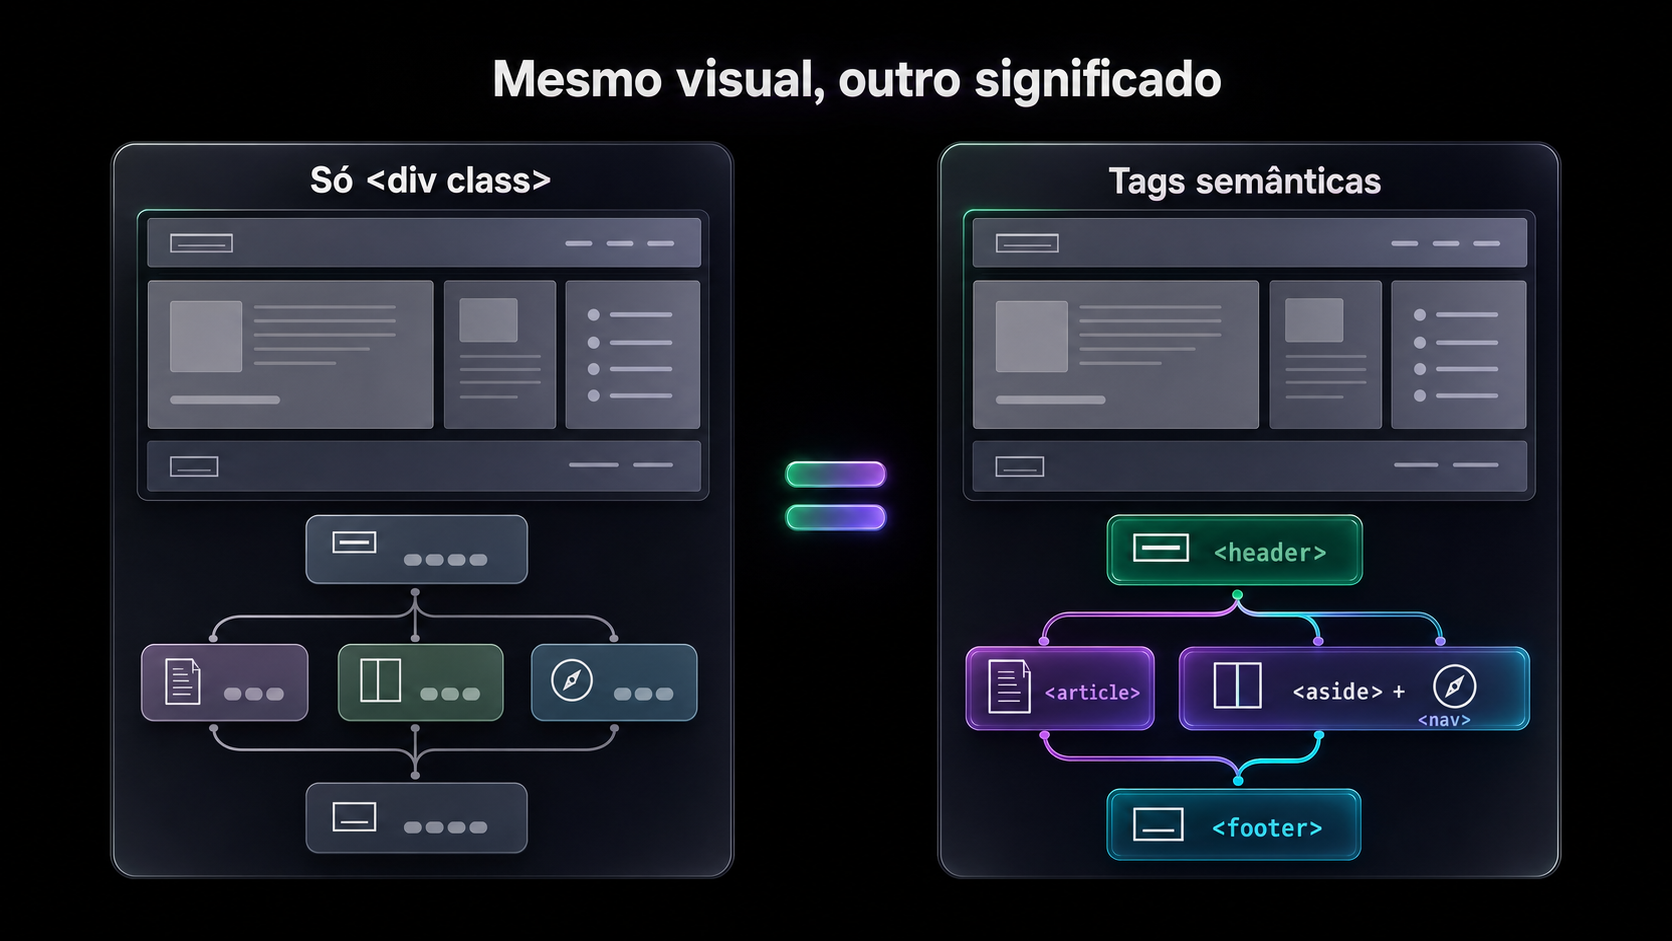
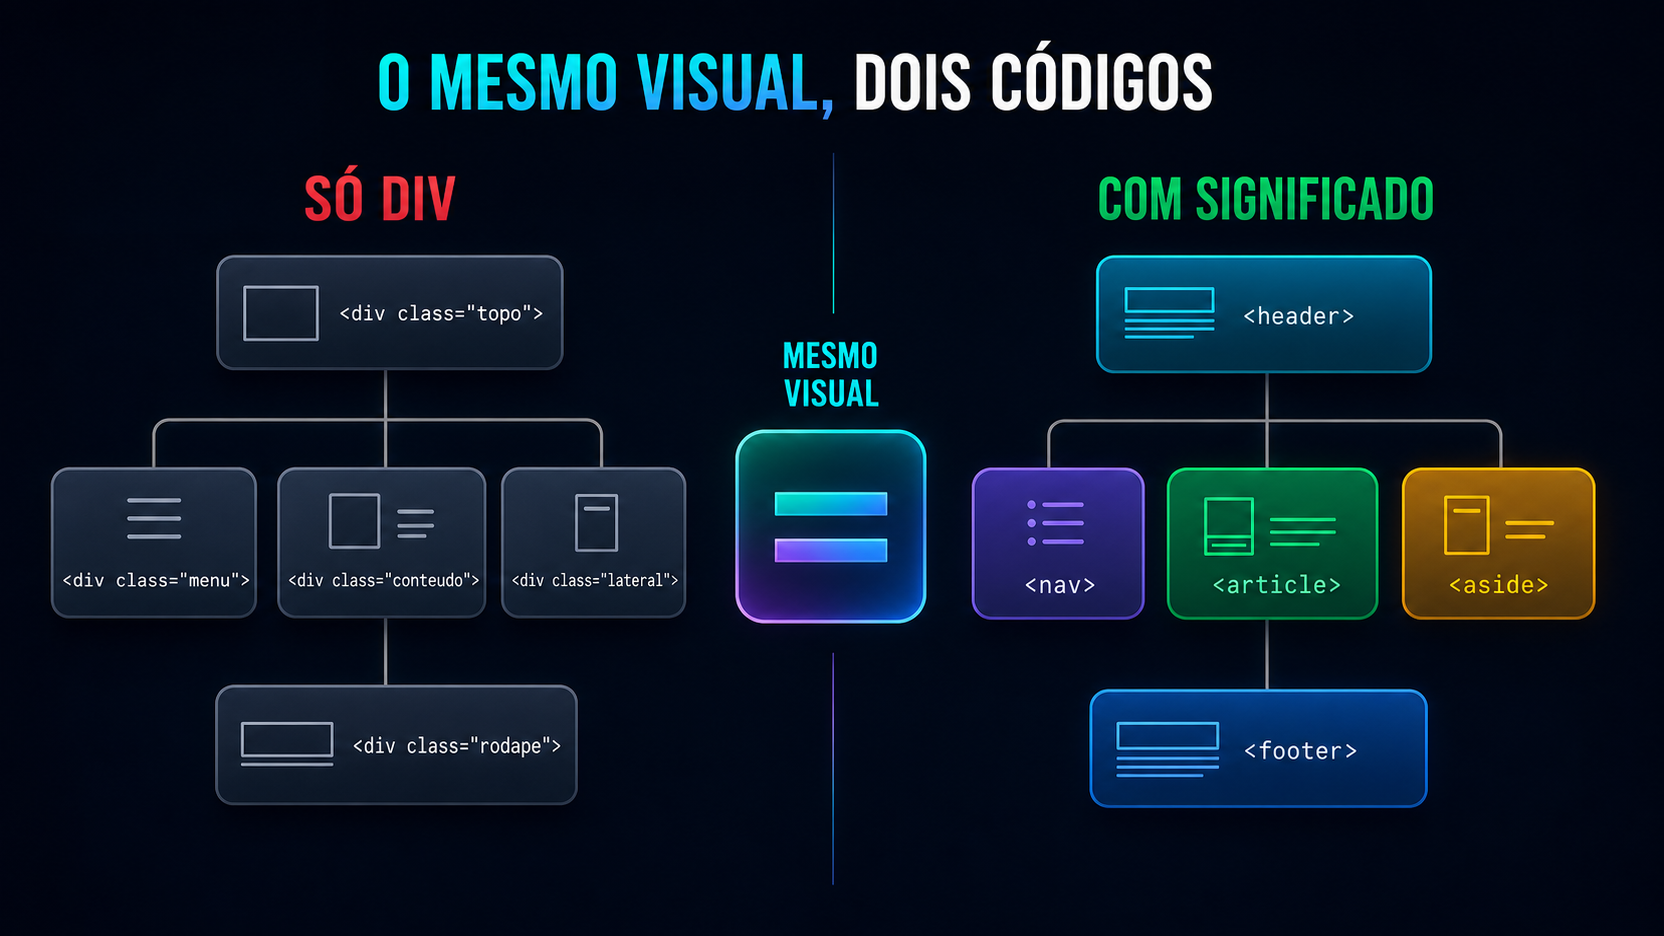
aula(programacao-front-end): infográfico v6 substitui a v5 defeituosa
A arte v5 versionada reprovava em dois defeitos da regra R3:

- D10, comparação com um lado só rotulado. Os nós de <div> vinham com
  pontinhos no lugar do class, enquanto o lado semântico trazia header,
  article, aside+nav e footer nomeados. Isso inverte o argumento da aula:
  o que se ensina é que o lado da div TEM nome, escondido no class onde só
  o CSS enxerga — a arte mostrava que ele não tem nome nenhum.
- D9, wireframe cinza sem rótulo nem cor semântica.

A v6 rotula os dois lados com código real, dá cor e ícone a cada nó, e
fecha em 1664x936, 16:9 exato (a v5 estava em 1672x941, desvio 0,1%).

Troca de imagem não pede bump de versao nem mexe no manifesto.

diff --git a/aulas/programacao-front-end/fundamentos-html-css/01-html-semantico/imagens.md b/aulas/programacao-front-end/fundamentos-html-css/01-html-semantico/imagens.md
@@ -24,7 +24,7 @@ Brief neutro de plataforma, no contrato v6: **um brief de `capa` + no máximo um
 - **perfil:** `infografico`
 - **arquivo:** img/mesmo-visual-dois-codigos.png
 - **secao:** Desenvolvimento › O problema da div-soup / O catálogo que resolve isso
-- **estado:** existe arte-base v5 — regerar no perfil v6 antes de publicar
+- **estado:** aprovada — arte v6 substituiu a v5 em 2026-08-11. A v5 reprovava em D10 (só o lado das tags semânticas era rotulado; o lado da div vinha sem `class` visível, o que invertia o argumento da aula) e D9 (nós cinza sem cor nem rótulo). 1664×936, 16:9 exato.
 - **objetivo:** Provar, num golpe de vista, que os dois códigos produzem o mesmo resultado visual e que só um deles carrega significado. É o ponto exato onde o texto sozinho não convence: o aluno precisa **ver** que a tela é idêntica.
 - **alt:** Duas árvores de elementos HTML lado a lado, representando o mesmo layout visual (header no topo, article/aside/nav no meio, footer embaixo). À esquerda, todos os nós são `<div>` cinza, diferenciados apenas pelo atributo `class`. À direita, os mesmos nós usam as tags `<header>`, `<article>`, `<aside>`, `<nav>` e `<footer>`, destacadas em cores distintas. Um sinal de igual entre os dois painéis mostra que o resultado renderizado é o mesmo — o significado estrutural é explícito na tag, não no nome da classe.
 
